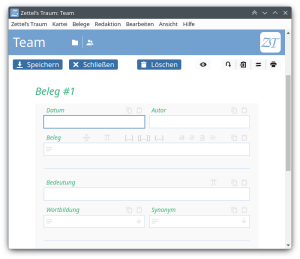
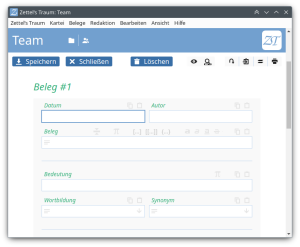
README.md: Update Abbildungen

diff --git a/README.md b/README.md
@@ -21,11 +21,11 @@ Die im Projekt *Wortgeschichte digital* mithilfe von *Zettel’s Traum* verfasst
 
 ## Die App
 
-<a href="img/win/start-karteikarte.png"><img align="right" src="img/readme/screenshot-karteikarte.png" width="300" height="259" alt="Karteikarte"></a>
+<a href="img/win/start-karteikarte.png"><img align="right" src="img/readme/screenshot-karteikarte.png" width="300" height="247" alt="Karteikarte"></a>
 
 *Zettel’s Traum* ist ein Karteikastenprogramm für historisch arbeitende Lexikographen und Lexikographinnen, das für das Wörterbuchprojekt *[Wortgeschichte digital](https://adw-goe.de/forschung/weitere-forschungsprojekte/wortgeschichte-digital-teilprojekt-im-zdl/)* (WGd) geschrieben wurde. Die App entstand aus der Idee heraus, Belegsammlungen auf Karteikarten, wie sie bereits seit den ersten Anfängen des *Deutschen Wörterbuchs von Jacob Grimm und Wilhelm Grimm* im Jahr 1838 in Gebrauch waren, in das digitale Zeitalter zu holen und sie durch eine Vielzahl an Such-, Filter- und Verwaltungsfunktionen zugänglich zu machen. *Zettel’s Traum* soll das Schreiben von Wörterbuchartikeln, bei denen nicht selten mit großen Massen an Textbelegen hantiert wird, komfortabler, das heißt schneller, übersichtlicher, schlicht und ergreifend leichter machen.
 
-<a href="img/win/start-belegliste.png"><img align="left" src="img/readme/screenshot-belegliste.png" width="300" height="259" alt="Belegliste"></a>
+<a href="img/win/start-belegliste.png"><img align="left" src="img/readme/screenshot-belegliste.png" width="300" height="247" alt="Belegliste"></a>
 
 Mit *Zettel’s Traum* können Sie Textbelege zu einem Wort (oder einer Wortverbindung) auf virtuelle Karteikarten schreiben, die in Wortkarteien gesammelt und verwaltet werden. Sie können die Belege und Wortkarteien in vielfältiger Weise taggen, also mit weiteren Informationen anreichern und verknüpfen: mit Internetressourcen, mit lokalen Dateien und nicht zuletzt mit Bedeutungen aus einem oder mehreren zentral verwalteten Bedeutungsgerüsten, in denen sich die einzelnen Positionen nach Belieben umbenennen und verschieben, verschmelzen und erweitern lassen, ohne dass man Dutzende oder gar Hunderte Karteikarten einzeln ändern müsste.
 
